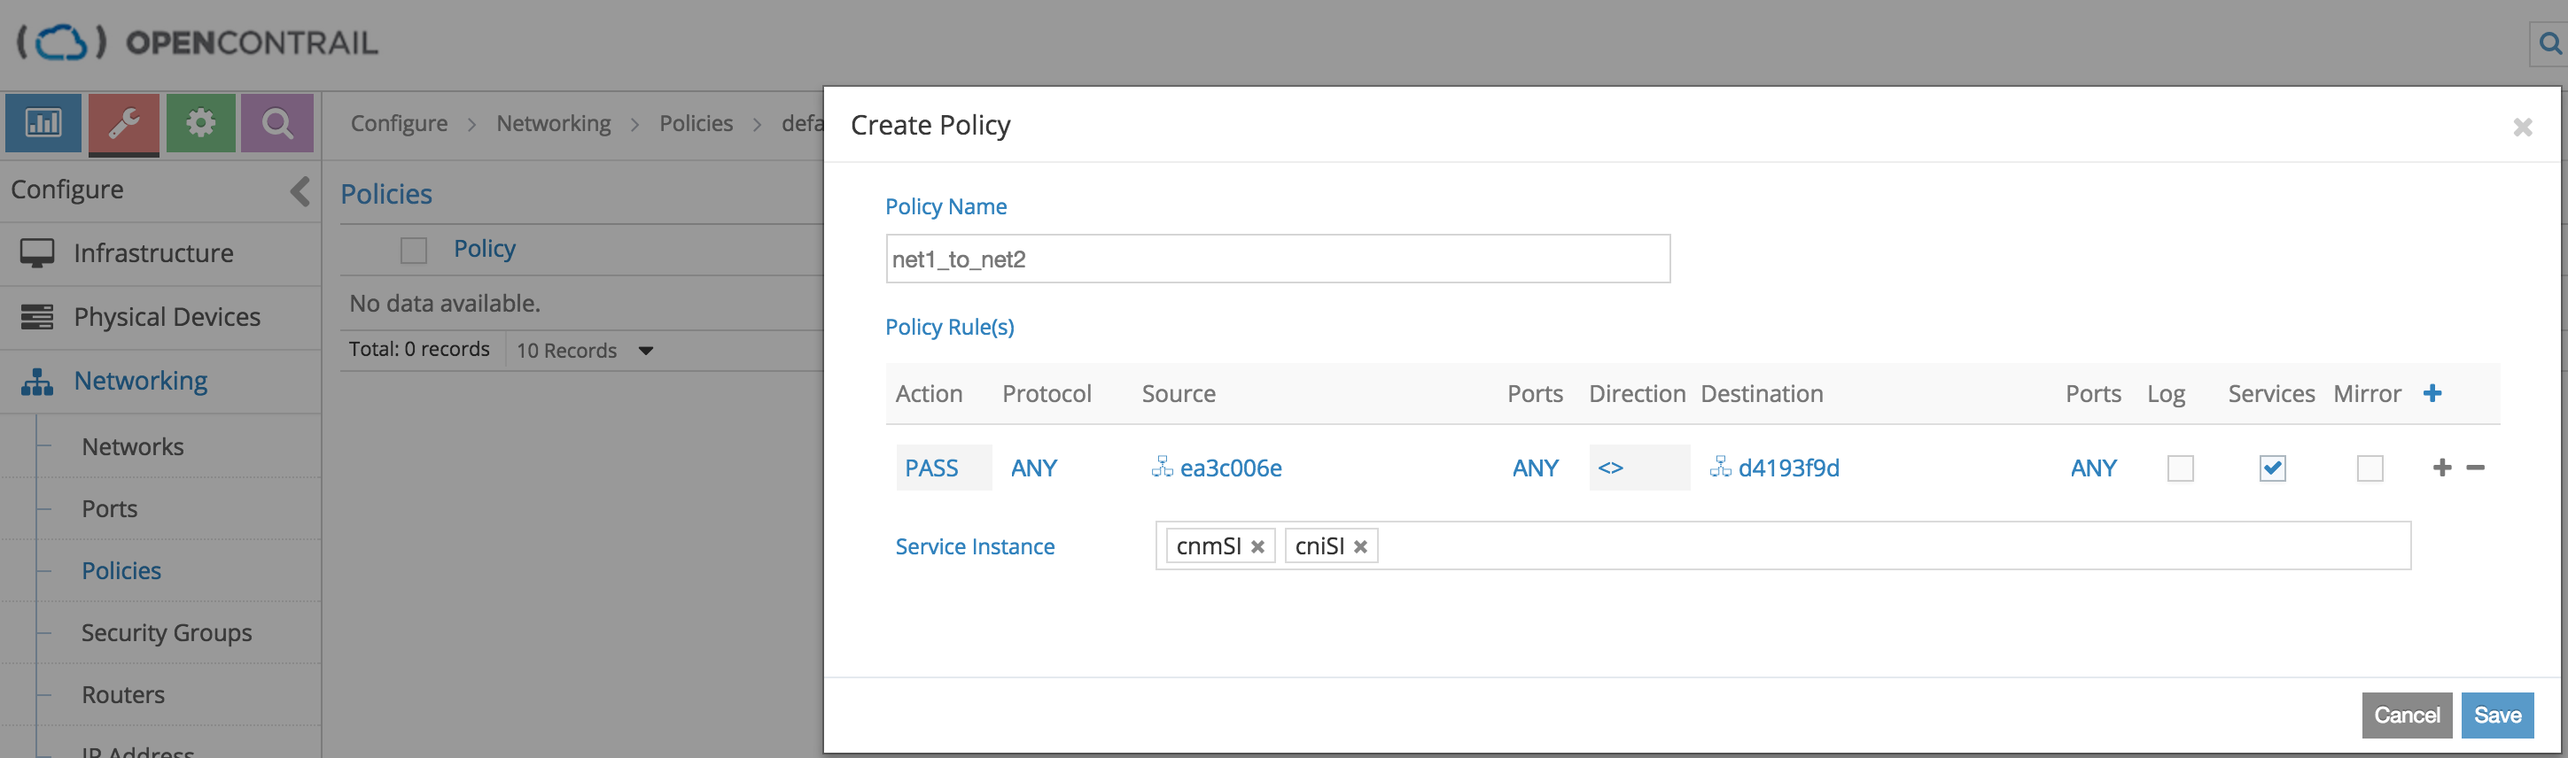
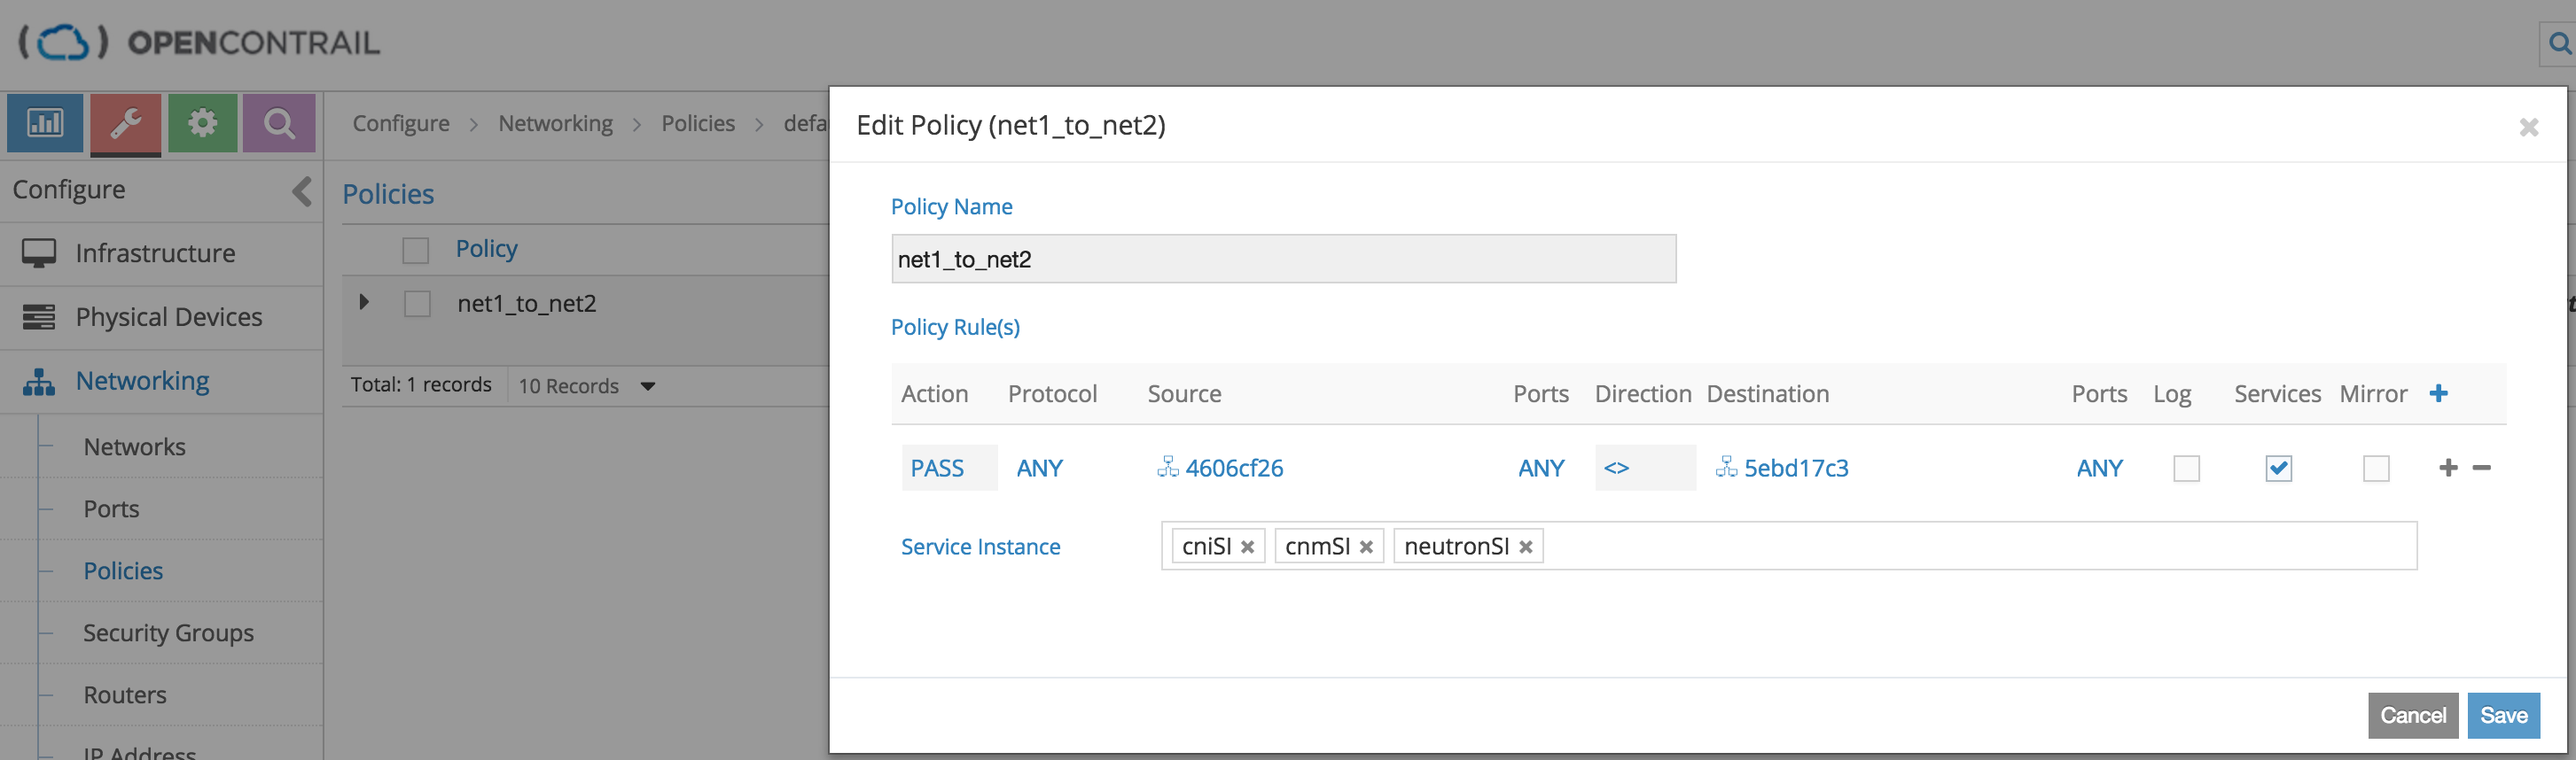
added neutron

diff --git a/README.md b/README.md
@@ -1,4 +1,4 @@
-# Service Chaining with OpenContrail using CNI and CNM based container as Virtual Network Functions (VNF)
+# Service Chaining with OpenContrail using OpenStack VM, CNI and CNM based container as Virtual Network Functions (VNF)
 
 CNI (Container Network Interface) and CNM (Container Network Model) are two competing    
 container networking frameworks. CNI can be used for k8s, OpenShift and Mesos,    
@@ -17,9 +17,10 @@ https://github.com/michaelhenkel/opencontrail-docker-libnetwork
 
 In order to show the full potential of the abstraction this example uses one CNI    
 and one CNM based container as Service Instances (SI) in a Service Chain between    
-two other containers.    
+two other containers. To complete the setup an OpenStack based VM is added as a third SI.    
+The OpenStack SI uses the OpenContrail neutron plugin.        
 Two additional containers will be connected to virtual networks (VNs) net1 and net2.    
-A network policy will force traffic between the containers through the CNM and CNI SI.    
+A network policy will force traffic between the containers through the OpenStack, CNM and CNI SI.    
 Therefore two VNs (net1 and net2) will be created. The SIs will have connections into    
 net1 and net2. The other two containers are single legged and connected to net1 and net2.    
 The VNs must be created using the CNM command line as CNM doesn't support discovery    
@@ -27,43 +28,40 @@ VNs not being created by CNM.
 
 # Logical Network Setup
 ```
-                      +-------------+
-                      |    cnmSI    |
-                      |   Docker    |
-                      |.3         .3|
-                      +-+---------+-+
-                        |         |
-             +----------++       ++----------+
-+---------+  |net1:      |       |net2:      |  +---------+
-|Docker .2+--+10.1.1.0/24|       |10.2.2.0/24+--+.2 Docker|
-+---------+  +----------++       ++----------+  +---------+
-                        |         |
-                      +-+---------+-+
-                      |.254     .254|
-                      |  Namespace  |
-                      |    cniSI    |
-                      +-------------+
+                            +-------------+
+                            |    cnmSI    |
+                            |   Docker    |
+                        +---+.3         .3+---+
+                        |   +-------------+   |
+                        |                     |
+                        |   +-------------+   |
+             +----------++  |  neutronSI  |  ++----------+
++---------+  |VN net1:   +--+.252 KVM .252+--+VN net2:   |  +---------+
+|Docker .2+--+10.1.1.0/24|  |             |  |10.2.2.0/24+--+.2 Docker|
++---------+  +----------++  +-------------+  +-+---------+  +---------+
+                        |                      |
+                        |   +-------------+    |
+                        +---+.254     .254+----+
+                            |  Namespace  |
+                            |    cniSI    |
+                            +-------------+
+
 ```
 
 # Communication Flow
 ```
-              +-------------+
-              |    cnmSI    |
- +---------+  |   Docker    |
- |Docker|.2+-->.3         .3|
- +---------+  +------------++
-                           |
-                 +---------+
-                 |
-              +--v----------+  +---------+
-              |.254     .254+-->.2 Docker|
-              |  Namespace  |  +---------+
-              |    cniSI    |
-              +-------------+
+
+             +-------------+  +-------------+  +-------------+
+             |    cnmSI    |  |    cniSI    |  |  neutronSI  |
++---------+  |   Docker    |  |  Namespace  |  |    KVM      |  +---------+
+|Docker .2+-->.3         .3+-->.254     .254+-->.252     .252+-->.2 Docker|
++---------+  +-------------+  +-------------+  +-------------+  +---------+
+
 ```
 #Setup Instructions:
 Prerequisites:    
 * A running OpenContrail backend    
+* A running OpenStack backend    
 * docker-engine and docker-compose installed on the host    
       (for multi-host networking the docker-engine must be    
        connected to a key/value store)    
@@ -280,7 +278,7 @@ ip netns add cniSI
 docker-compose run -e CNI_COMMAND=ADD -e CNI_NETNS=/var/run/netns/cniSI --rm cni  < /etc/cni/net.d/10-opencontrail-multi.conf
 ```
 
-Check create vrouter virtual interfacesL    
+Check vrouter interfaces:    
 ```
 docker exec -it contrail_vrouter-agent_1 vif --list
 ```
@@ -292,6 +290,31 @@ docker exec -it alp2 ip addr sh
 docker exec -it cnmSI ip addr sh
 ip netns exec cniSI ip addr sh
 ```
+
+Get the neutron net ids for net1 and net2:    
+```
+nova net-list
++--------------------------------------+-------------------------+------+
+| ID                                   | Label                   | CIDR |
++--------------------------------------+-------------------------+------+
+| b9081815-4dbc-4910-b36f-b8b1a9319cb2 | ip-fabric               | None |
+| 14ef277b-0409-496d-ac88-5780190973f1 | net1                    | None |
+| e549c986-93b8-4268-b9e4-2434f384dd6a | net2                    | None |
+| 8a61b1b3-b3a2-4821-97d0-9ae7c21ef985 | default-virtual-network | None |
+| a2ad148f-2b1b-40e0-be7c-bdfe090b07c1 | __link_local__          | None |
++--------------------------------------+-------------------------+------+
+```
+
+Create the neutron SI:    
+```
+nova boot --flavor nano --image cirros \
+     --nic net-id=14ef277b-0409-496d-ac88-5780190973f1 \
+     --nic net-id=e549c986-93b8-4268-b9e4-2434f384dd6a c1
+``I`
+The Cirros image per default only activates the first network interface.    
+The second interface must be activated from within the VM. Also    
+ip_forwading must be activated.    
+
 
 Start ping between alp1 and alp2 (will not work, yet):    
 ```
@@ -311,6 +334,10 @@ Create CNI SI:
 Create CNM SI:    
 ![ScreenShot](/pics/cnmSI_1.png?raw=true "Create Service Template")
 ![ScreenShot](/pics/cnmSI2.png?raw=true "Create Service Template")
+
+Create neutron SI:    
+![ScreenShot](/pics/neutronSI1.png?raw=true "Create Service Template")
+![ScreenShot](/pics/neutronSI2.png?raw=true "Create Service Template")
 
 Create Network Policy:    
 ![ScreenShot](/pics/createPolicy.png?raw=true "Create Service Template")
@@ -413,6 +440,23 @@ listening on veth91ea13b4, link-type EN10MB (Ethernet), capture size 65535 bytes
 01:27:36.412126 IP 10.1.2.3 > 10.1.1.3: ICMP echo reply, id 10496, seq 0, length 64
 01:27:37.405485 IP 10.1.1.3 > 10.1.2.3: ICMP echo request, id 10496, seq 1, length 64
 01:27:37.405666 IP 10.1.2.3 > 10.1.1.3: ICMP echo reply, id 10496, seq 1, length 64
+```
+
+neutronSI ports:
+```
+tcpdump -nS -i tapc5e3a80e-d7
+listening on tapc5e3a80e-d7, link-type EN10MB (Ethernet), capture size 65535 bytes
+18:53:14.946087 IP 10.1.1.2 > 10.1.2.2: ICMP echo request, id 2304, seq 2995, length 64
+18:53:14.947383 IP 10.1.2.2 > 10.1.1.2: ICMP echo reply, id 2304, seq 2995, length 64
+18:53:15.946345 IP 10.1.1.2 > 10.1.2.2: ICMP echo request, id 2304, seq 2996, length 64
+18:53:15.947661 IP 10.1.2.2 > 10.1.1.2: ICMP echo reply, id 2304, seq 2996, length 64
+
+tcpdump -nS -i tapcd11d589-57
+listening on tapcd11d589-57, link-type EN10MB (Ethernet), capture size 65535 bytes
+18:53:42.954621 IP 10.1.1.2 > 10.1.2.2: ICMP echo request, id 2304, seq 3023, length 64
+18:53:42.955295 IP 10.1.2.2 > 10.1.1.2: ICMP echo reply, id 2304, seq 3023, length 64
+18:53:43.954896 IP 10.1.1.2 > 10.1.2.2: ICMP echo request, id 2304, seq 3024, length 64
+18:53:43.955575 IP 10.1.2.2 > 10.1.1.2: ICMP echo reply, id 2304, seq 3024, length 64
 ```
 
 In order to show that multi-host networking works a third container is    
